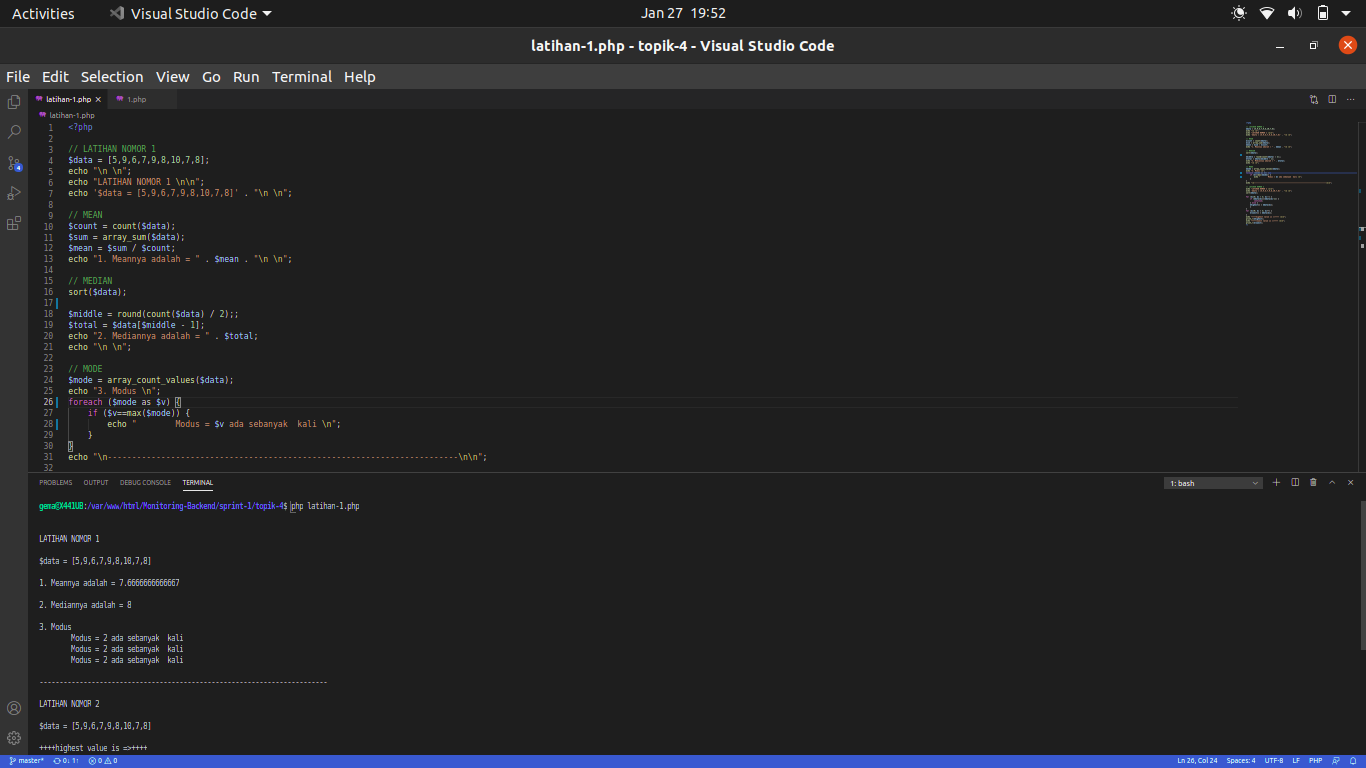
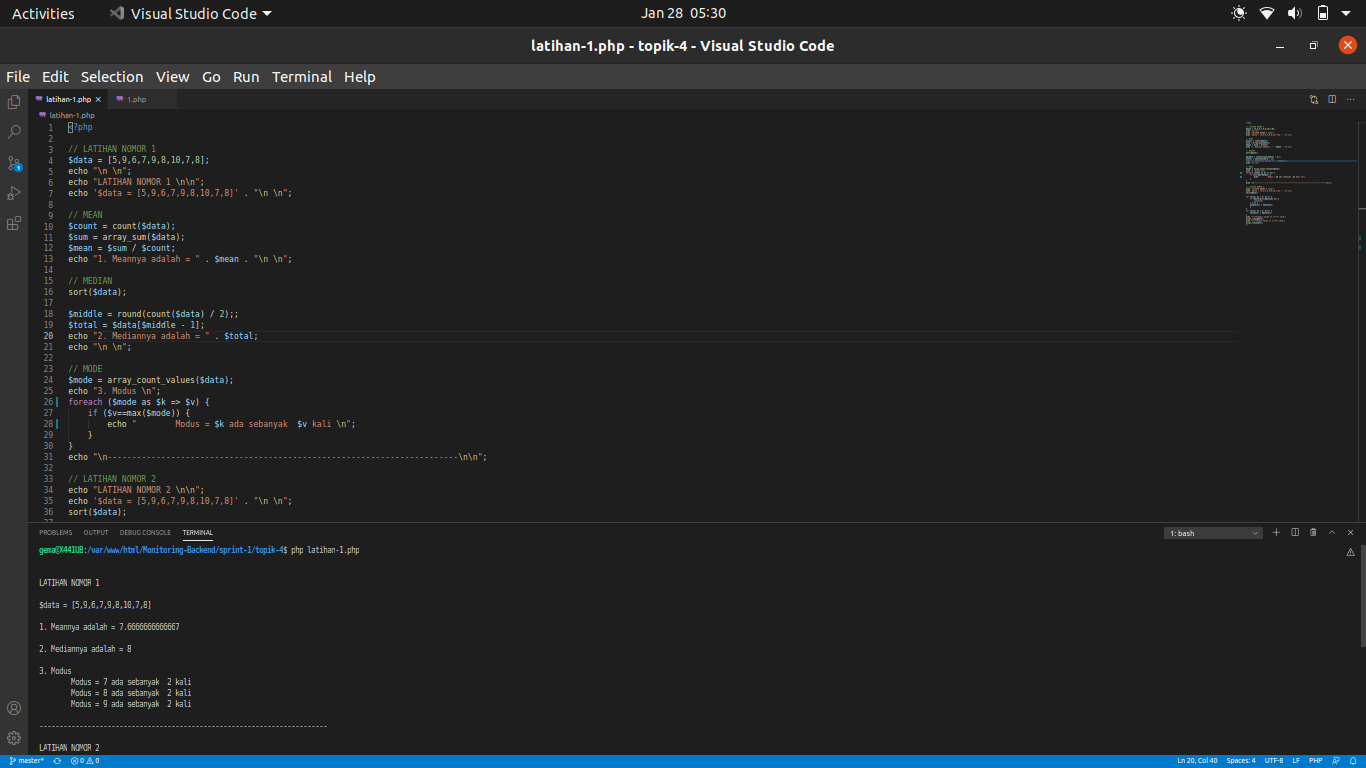
edit latihan-1.php 4.1

diff --git a/sprint-1/topik-4/latihan-1.php b/sprint-1/topik-4/latihan-1.php
@@ -23,9 +23,9 @@ echo "\n \n";
 // MODE
 $mode = array_count_values($data);
 echo "3. Modus \n";
-foreach ($mode as $v) {
+foreach ($mode as $k => $v) {
     if ($v==max($mode)) {
-        echo "        Modus = $v ada sebanyak  kali \n";
+        echo "        Modus = $k ada sebanyak  $v kali \n";
     }
 }
 echo "\n------------------------------------------------------------------------\n\n";
